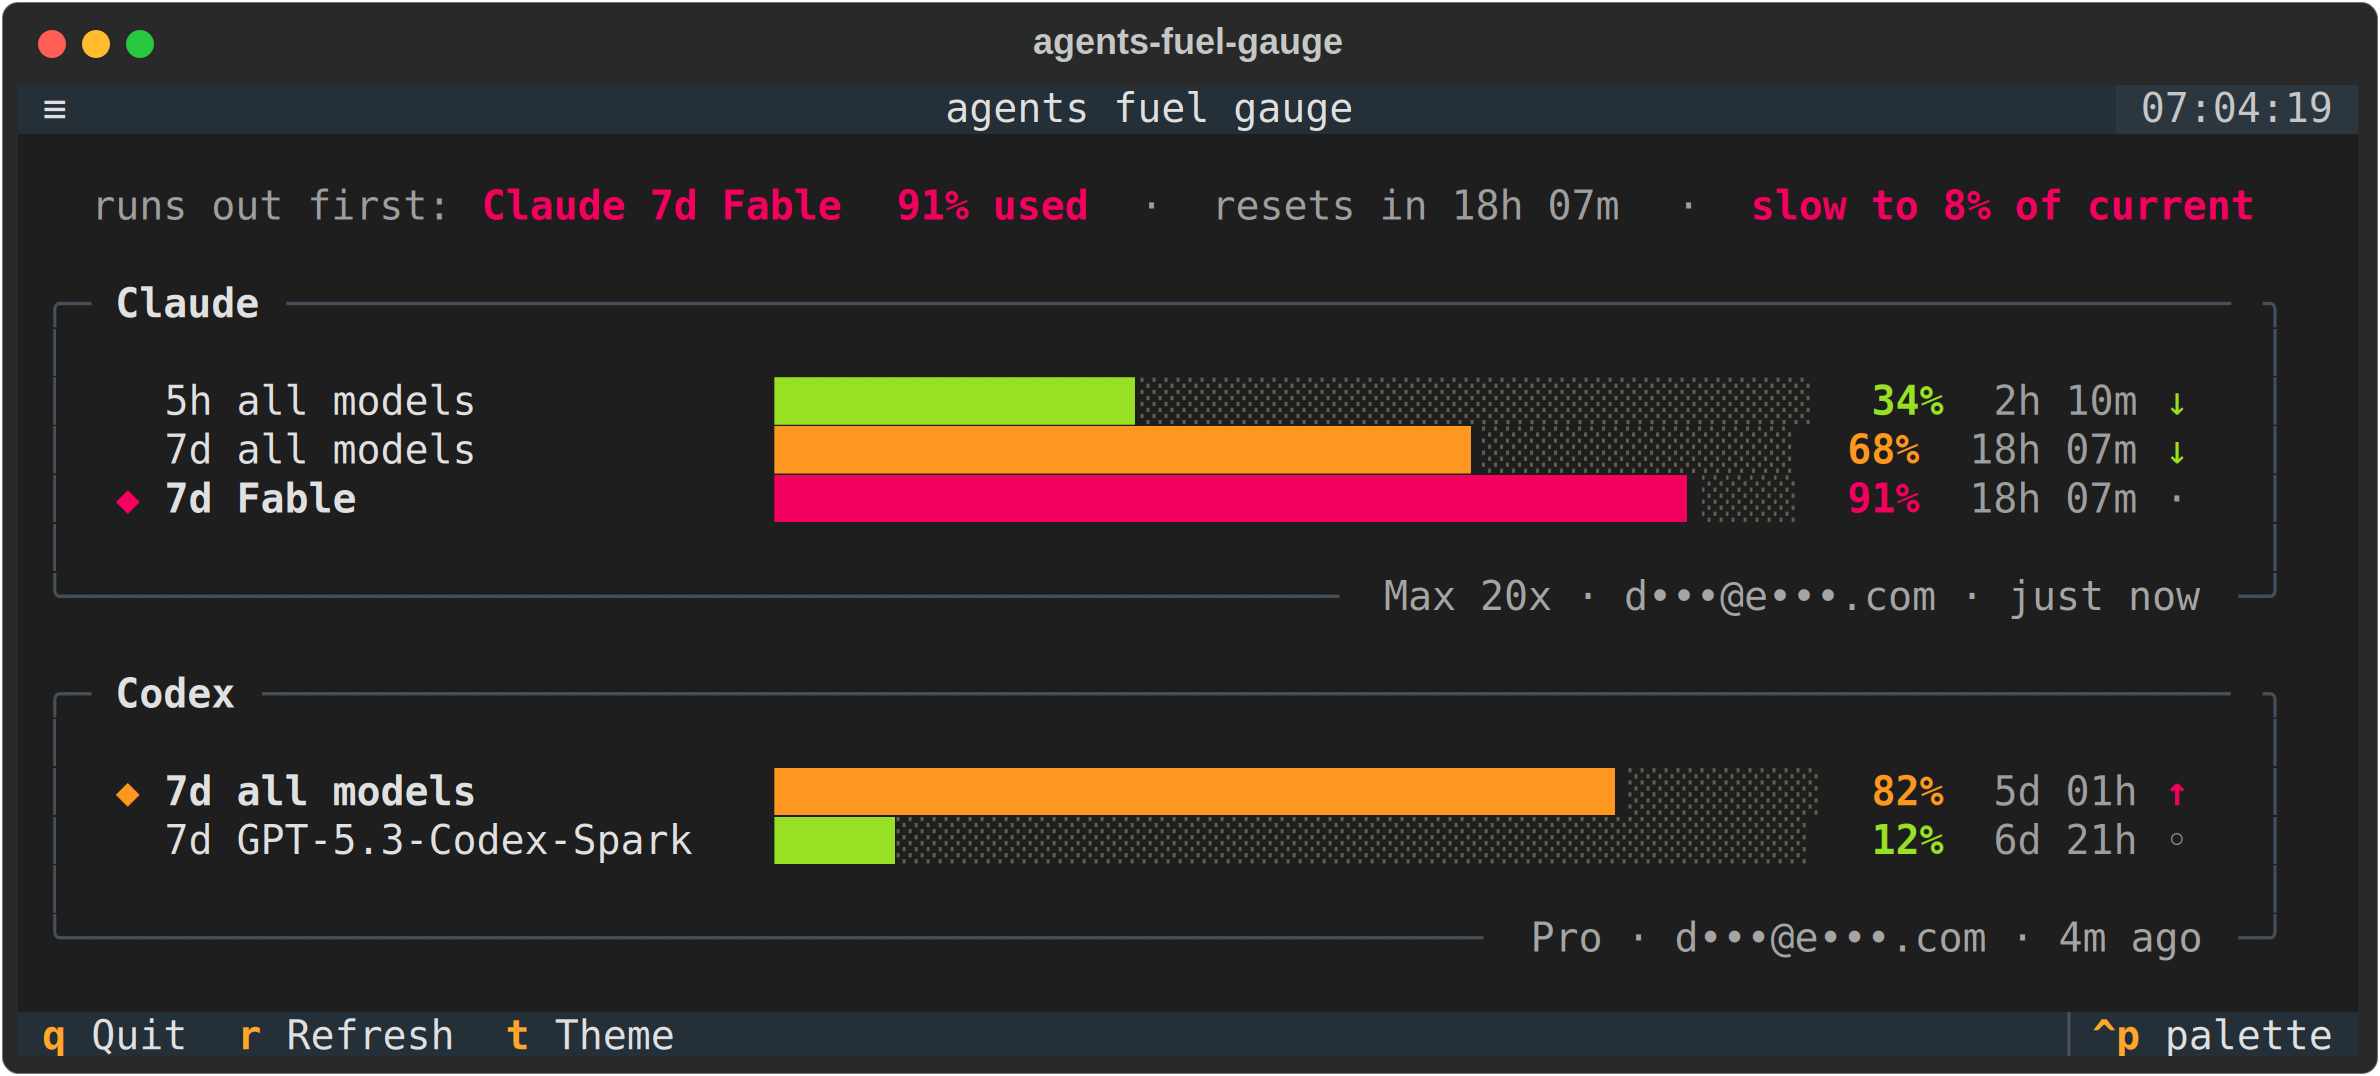
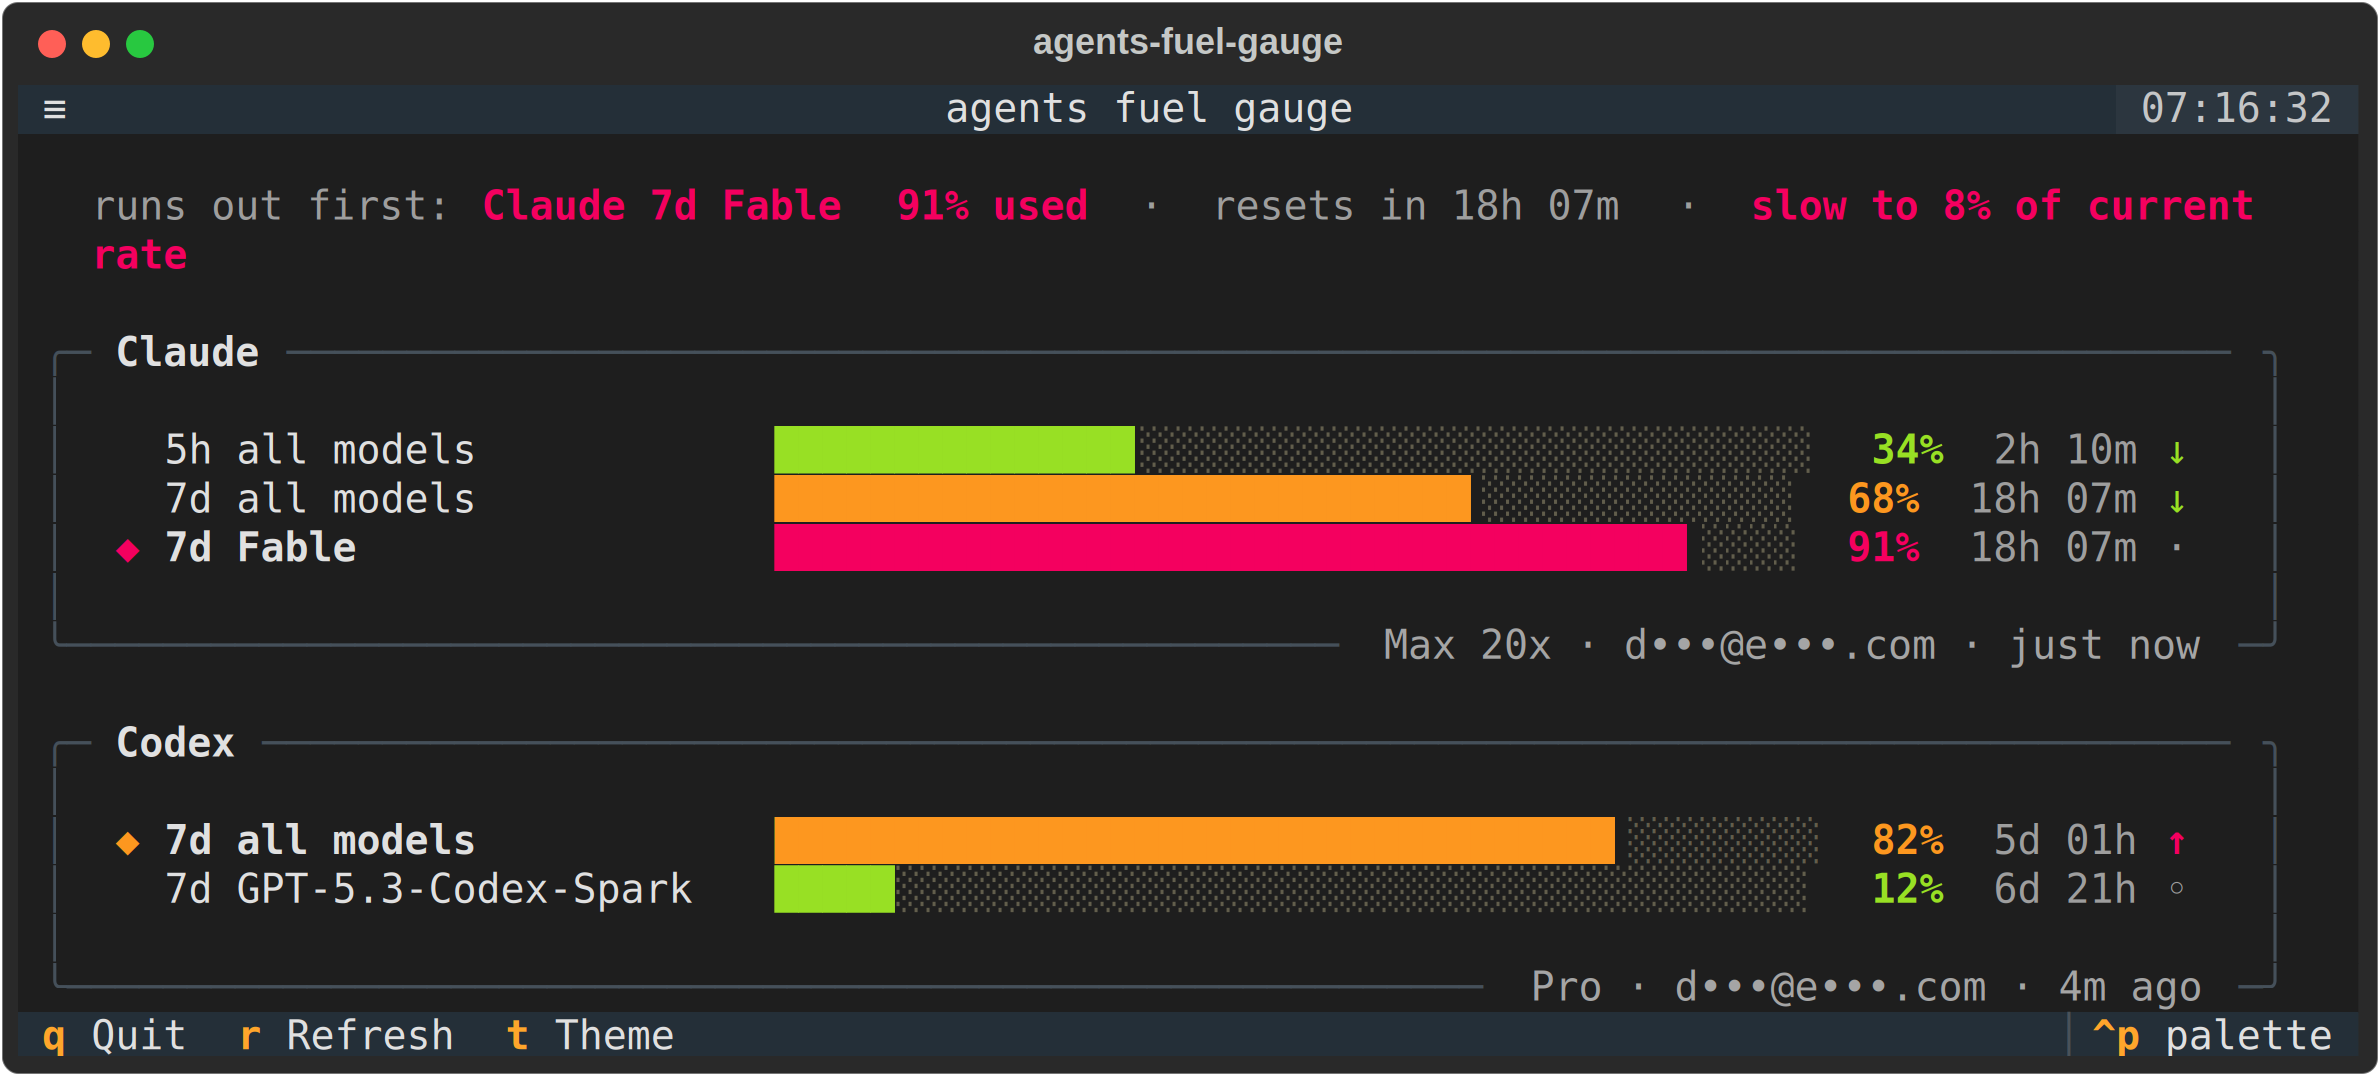
Wrap the status line instead of truncating it (0.2.2)
0.2.1 fixed the gauge rows but missed the status line above them, which is the
same bug in a second widget: it renders ~95 characters, was set to ellipsize,
and at 60 columns cut off mid-phrase at "resets in" -- losing both the reset
time and the pace advice, which is most of what it exists to say.

It now wraps rather than ellipsizes, and its height is auto. There is always
free vertical space below the panels, so spending a second line costs nothing
while truncating cost the two most useful facts on it.

Also added a coarsest countdown tier for the very narrowest terminals: at four
columns even "59m59s" does not fit, so the leading unit alone is drawn ("59m").
Roughly-right beats absent -- previously that case overflowed and the crop left
nothing readable.

The test fixtures had no window lengths, so pace was silently absent from every
UI test and the status-line assertions passed against a line that never
contained advice in the first place. They now carry window_seconds, which is
what surfaced this.

diff --git a/tests/test_app.py b/tests/test_app.py
@@ -10,6 +10,8 @@ from agents_fuel_gauge.app import FuelGaugeApp, GaugeBar, ProviderPanel, StatusL
 from agents_fuel_gauge.models import Gauge, ProviderSnapshot
 
 NOW = datetime.now(timezone.utc)
+FIVE_HOURS = 5 * 3_600
+ONE_WEEK = 7 * 86_400
 
 
 def _snapshots(fable_percent: float = 91.0, with_scoped: bool = True):
@@ -20,8 +22,10 @@ def _snapshots(fable_percent: float = 91.0, with_scoped: bool = True):
         account="a•••@e•••.com",
         captured_at=NOW,
         gauges=[
-            Gauge("5h", "all models", 5.0, NOW + timedelta(hours=1)),
-            Gauge("7d", "all models", 50.0, NOW + timedelta(hours=18)),
+            Gauge("5h", "all models", 5.0, NOW + timedelta(hours=1),
+                  window_seconds=FIVE_HOURS),
+            Gauge("7d", "all models", 50.0, NOW + timedelta(hours=18),
+                  window_seconds=ONE_WEEK),
         ],
     )
     if with_scoped:
@@ -33,6 +37,7 @@ def _snapshots(fable_percent: float = 91.0, with_scoped: bool = True):
                 NOW + timedelta(hours=18),
                 severity="critical",
                 runs_out_first=True,
+                window_seconds=ONE_WEEK,
             )
         )
     codex = ProviderSnapshot(
@@ -41,7 +46,8 @@ def _snapshots(fable_percent: float = 91.0, with_scoped: bool = True):
         plan="Pro",
         captured_at=NOW,
         gauges=[
-            Gauge("7d", "all models", 98.0, NOW + timedelta(days=2), "critical", True)
+            Gauge("7d", "all models", 98.0, NOW + timedelta(days=2), "critical", True,
+                  window_seconds=ONE_WEEK)
         ],
     )
     return [claude, codex]
@@ -238,3 +244,23 @@ class TestNarrowTerminal:
                 panel.refresh_titles()
             for panel in app.query(ProviderPanel):
                 assert "ago" in panel.border_subtitle or "now" in panel.border_subtitle
+
+    @pytest.mark.parametrize("width", [120, 100, 70, 60, 50, 40, 32, 26])
+    async def test_status_line_never_loses_the_reset_time_or_advice(self, stub, width):
+        """It is ~95 chars; ellipsizing dropped exactly the useful tail."""
+        app = FuelGaugeApp(interval=3600)
+        async with app.run_test(size=(width, 30)) as pilot:
+            await pilot.pause()
+            text = app.query_one(StatusLine).render().plain
+            assert "resets in" in text, f"reset time lost at width {width}"
+            assert "rate" in text or "spent" in text, f"advice lost at width {width}"
+
+    async def test_status_line_grows_instead_of_truncating(self, stub):
+        """Vertical space below the panels is free; horizontal space is not."""
+        heights = {}
+        for width in (120, 50):
+            app = FuelGaugeApp(interval=3600)
+            async with app.run_test(size=(width, 30)) as pilot:
+                await pilot.pause()
+                heights[width] = app.query_one(StatusLine).size.height
+        assert heights[50] > heights[120]

diff --git a/src/agents_fuel_gauge/app.py b/src/agents_fuel_gauge/app.py
@@ -2,6 +2,8 @@
 
 from __future__ import annotations
 
+import re
+
 from rich.text import Text
 from textual.app import App, ComposeResult
 from textual.containers import Vertical, VerticalScroll
@@ -78,6 +80,11 @@ class GaugeBar(Static):
 
         countdown = format_countdown(gauge.seconds_remaining())
         compact = countdown.replace(" ", "")
+        # Coarsest readable form for the very narrowest terminals: the leading
+        # unit only, "18h 07m" -> "18h". Less precise, but "roughly 18 hours"
+        # beats no reset time at all, which is what cropping leaves you with.
+        leading = re.match(r"\d+[dhms]", compact)
+        coarse = leading.group(0) if leading else compact
         marker = "◆" if gauge.runs_out_first else " "
         width = self.size.width
         pct_style = f"bold {color}"
@@ -97,6 +104,7 @@ class GaugeBar(Static):
             ([(f"{gauge.percent:.0f}%", pct_style),
               (f" {compact}", "dim")], 0, 3),
             ([(compact, "dim")], 0, 0),
+            ([(coarse, "dim")], 0, 0),
         )
 
         tail, marker_width = variants[-1][0], 0
@@ -249,7 +257,11 @@ class StatusLine(Static):
 
         snap, gauge = max(candidates, key=lambda pair: pair[1].percent)
         color = SEVERITY_COLOR.get(gauge.severity, "green")
-        text = Text(no_wrap=True, overflow="ellipsis")
+        # Wrap rather than ellipsize. This line is ~95 characters and every
+        # part of it matters — which limit binds, when it resets, what to do.
+        # Truncating drops the reset time and the advice, and there is always
+        # spare vertical room below the panels to spend instead.
+        text = Text(no_wrap=False, overflow="fold")
         text.append("runs out first: ", style="dim")
         text.append(f"{snap.display_name} {gauge.label}", style=f"bold {color}")
         text.append("  ", style="")

diff --git a/src/agents_fuel_gauge/__init__.py b/src/agents_fuel_gauge/__init__.py
@@ -3,7 +3,7 @@
 Every subscription quota for Claude Code and Codex, on one screen.
 """
 
-__version__ = "0.2.1"
+__version__ = "0.2.2"
 __author__ = "ItsumiMario"
 __license__ = "MIT"
 
